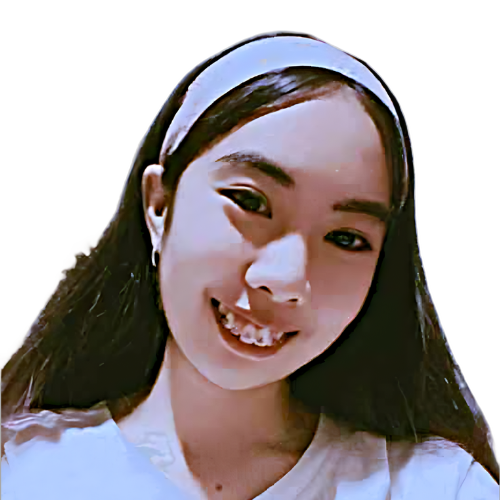
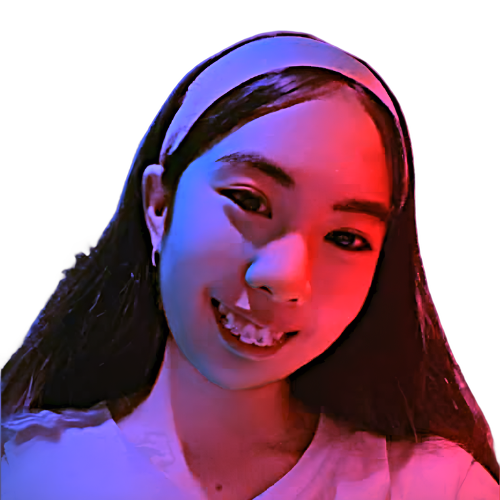
adding files

diff --git a/src/components/About/About.js b/src/components/About/About.js
@@ -12,9 +12,9 @@ function About() {
     return (
         <div className="about" id="about" style={{backgroundColor: theme.secondary}}>
             <div className="line-styling">
-              <div className="style-circle" style={{backgroundColor: theme.primary}}></div>
-              <div className="style-circle" style={{backgroundColor: theme.primary}}></div>
-              <div className="style-line" style={{backgroundColor: theme.primary}}></div>
+            <div className="style-circle" style={{backgroundColor: theme.primary}}></div>
+            <div className="style-circle" style={{backgroundColor: theme.primary}}></div>
+            <div className="style-line" style={{backgroundColor: theme.primary}}></div>
             </div>
             <div className="about-body">
                 <div className="about-description">

diff --git a/src/data/skillsData.js b/src/data/skillsData.js
@@ -1,17 +1,6 @@
  export const skillsData = [
-    'HTML',
-    'Javascript',
-    'CSS',
-    'React',
-    'Django',
-    'MongoDB',
-    'MySQL',
-    'Python'
+    'Baking',
 ]
-
-// Choose your skills from below. Make sure it's in the same format and spelled correctly.
-// Couldn't find the required skills? Raise an issue on github at https://github.com/hhhrrrttt222111/developer-portfolio/issues/new
-
 
 // AVAILABLE SKILLS
 

diff --git a/src/data/experienceData.js b/src/data/experienceData.js
@@ -1,10 +1,10 @@
 export const experienceData = [
     {
         id: 1,
-        company: 'Globex Corporation',
-        jobtitle: 'Frontend Developer',
-        startYear: '2018',
-        endYear: '2019'
+        company: ' ',
+        jobtitle: ' ',
+        startYear: '',
+        endYear: ''
     },
     
 ]

diff --git a/src/components/Footer/Footer.js b/src/components/Footer/Footer.js
@@ -22,7 +22,7 @@ function Footer() {
                 <span style={{color: theme.primary, margin: '0 0.5rem -1rem 0.5rem'}}>
                     ❤
                 </span>
-                 by {shortname(headerData.name)}
+                by {shortname(headerData.name)}
             </p>
         </div>
     )

diff --git a/src/pages/Main/Main.js b/src/pages/Main/Main.js
@@ -14,7 +14,7 @@ function Main() {
             <Navbar />        
             <Landing />
             <About />
-            <Skills />
+            {/* <Skills /> */}
             <Education />            
             {/* <Projects /> */}
             <Achievement />

diff --git a/src/data/achievementData.js b/src/data/achievementData.js
@@ -26,7 +26,7 @@ export const achievementData = {
             image : ''
         },
         {
-            id : 3,
+            id : 4,
             title : '',
             details : '',
             date : '',

diff --git a/src/data/headerData.js b/src/data/headerData.js
@@ -1,5 +1,5 @@
 import resume from '../assets/pdf/resume.pdf'
-import image from '../assets/png/fhey1.png'
+import image from '../assets/png/fhey2.png'
 
 export const headerData = {
     name: 'Fhey Francia',

diff --git a/src/data/contactsData.js b/src/data/contactsData.js
@@ -1,7 +1,7 @@
 export const contactsData = {
     email: '',
     phone: '',
-    address: '',
+    address: 'Apalit, Pampanga',
 
     sheetAPI: ''
 }

diff --git a/src/data/themeData.js b/src/data/themeData.js
@@ -5,7 +5,7 @@ import {
 
 
 export const themeData = {
-    theme: pinkThemeDark
+    theme: redThemeDark,
 }
 
 
